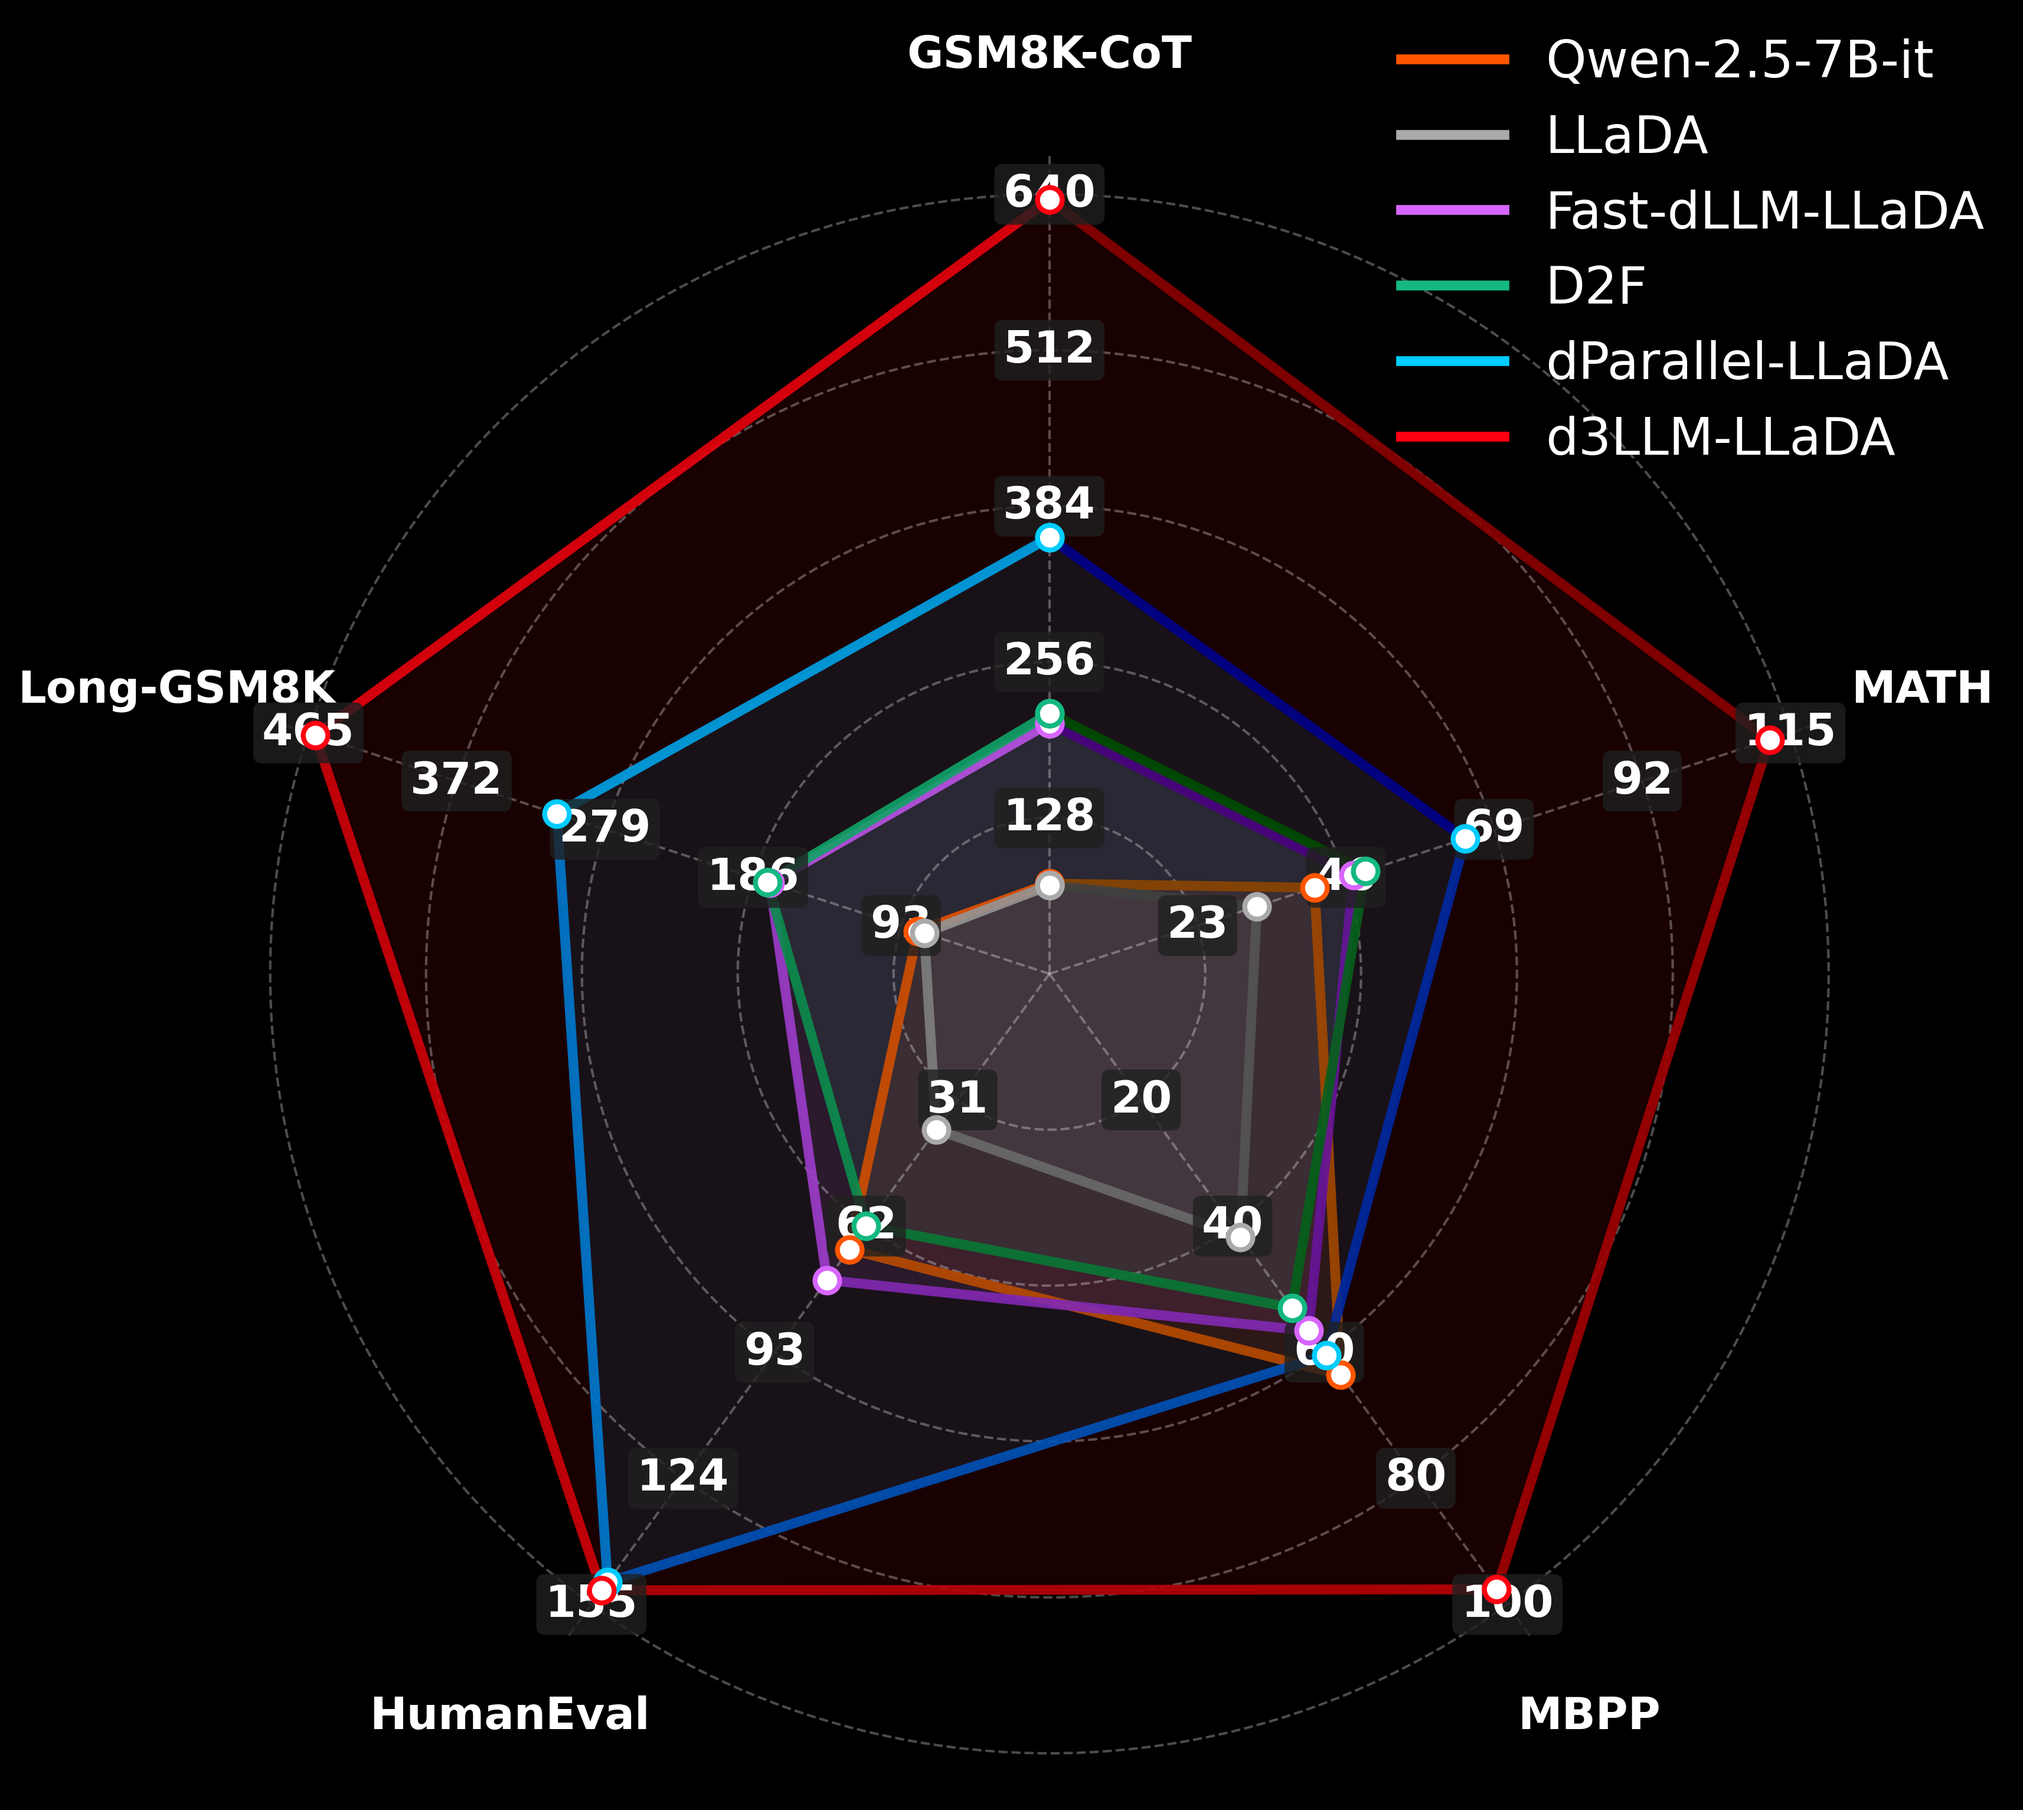
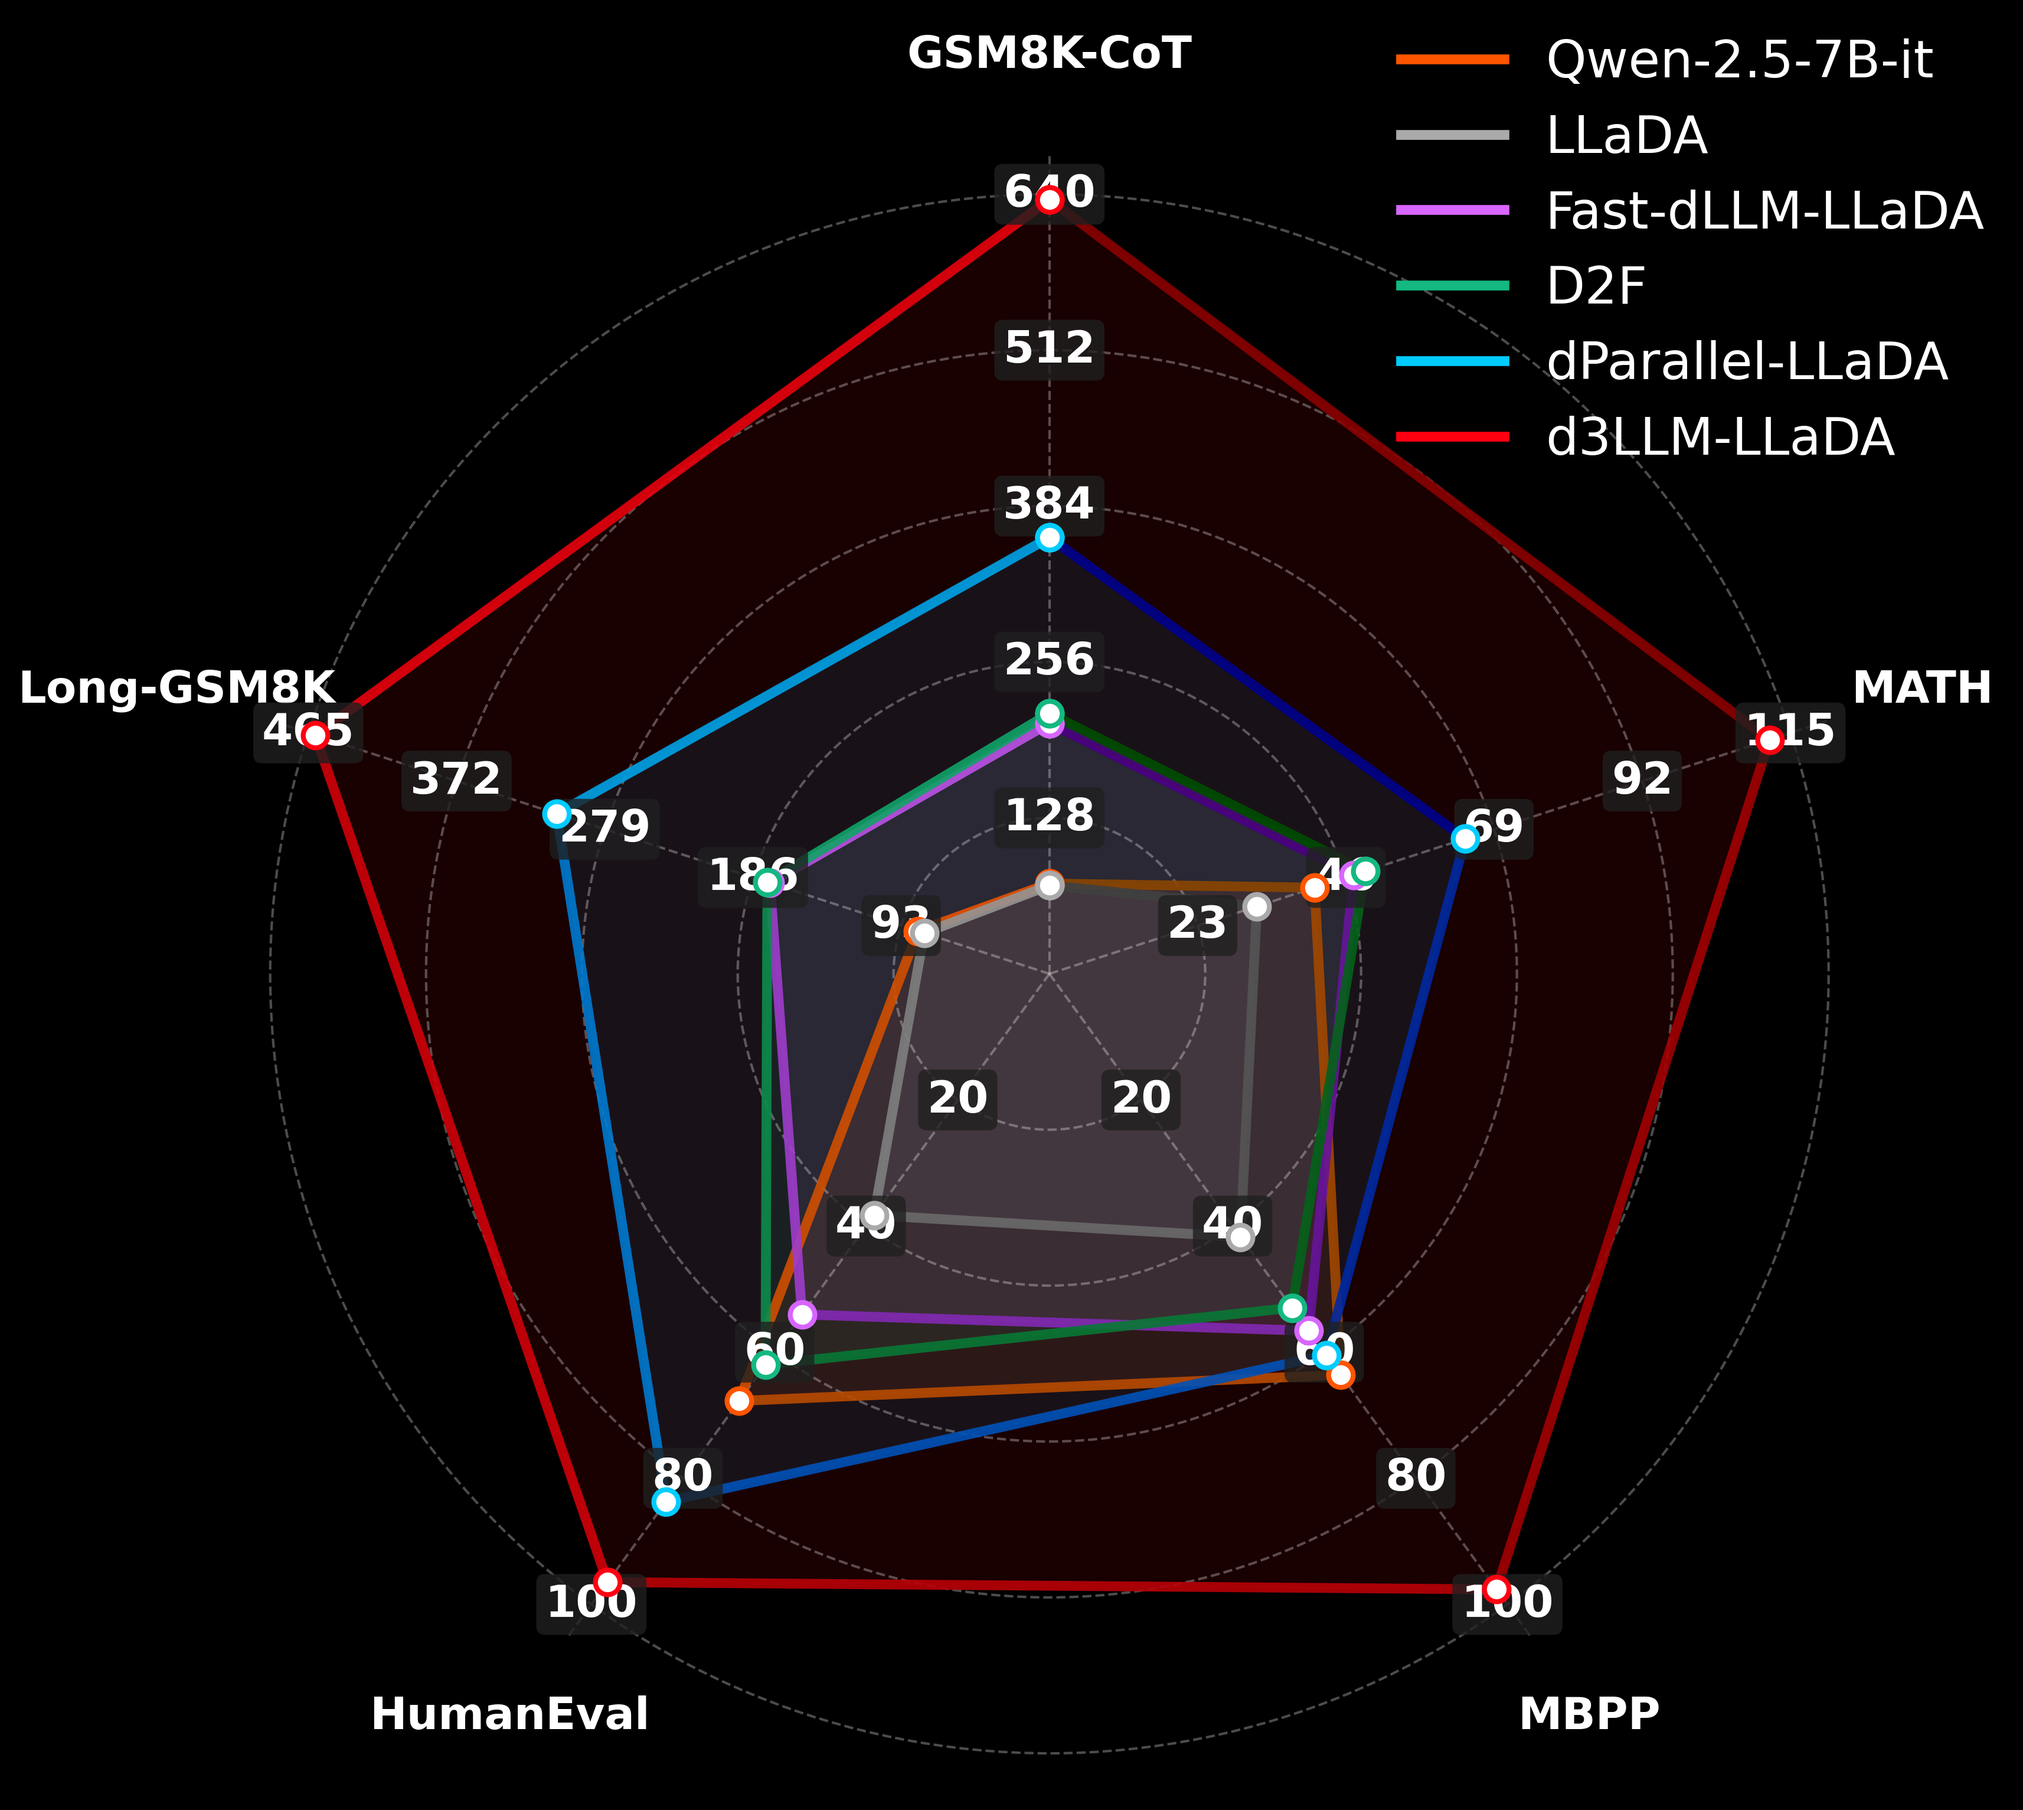
Fix the bug of token stats in HumanEval (LLaDA)

Changed region(s): [[0.2498, 0.4649, 0.6557, 0.8989], [0.2186, 0.6199, 0.2498, 0.7129], [0.1873, 0.5579, 0.2186, 0.5889]]

diff --git a/utils/utils_LLaDA/eval_llada.py b/utils/utils_LLaDA/eval_llada.py
@@ -686,10 +686,11 @@ class LLaDAEvalHarness(LM):
 
             if self.is_instruct and 'task_id' in req.doc and str(req.doc['task_id']).lower().startswith('humaneval'):
                 original_answer = self.tokenizer.decode(generated_answer[0][input_ids.shape[1]:], skip_special_tokens=True)
+                generated_answer_ids = torch.tensor(self.tokenizer(original_answer)["input_ids"])
                 if self.show_speed and i >= warmup_steps:
                     tokens_before_until = self.tokenizer(original_answer, add_special_tokens=False)['input_ids']
                     num_tokens_before_until += len([t for t in tokens_before_until if t != 126081])
-                    num_tokens += (generated_answer != 126081).sum()
+                    num_tokens += (generated_answer_ids != 126081).sum()
                     num_nfe += nfe
                 generated_answer = original_answer
             else:

diff --git a/AUP_leaderboard/main.py b/AUP_leaderboard/main.py
@@ -17,6 +17,10 @@ FONT_SIZES = {
     'data_dream_coder': (26, 24, 22, 18, 21, 19, 17),
 }
 
+# Create output directory for figures
+import os
+os.makedirs('figs', exist_ok=True)
+
 for DATA_PATH in DATA_PATHS:
     print(f"\n{'='*60}\nProcessing {DATA_PATH}\n{'='*60}")
     
